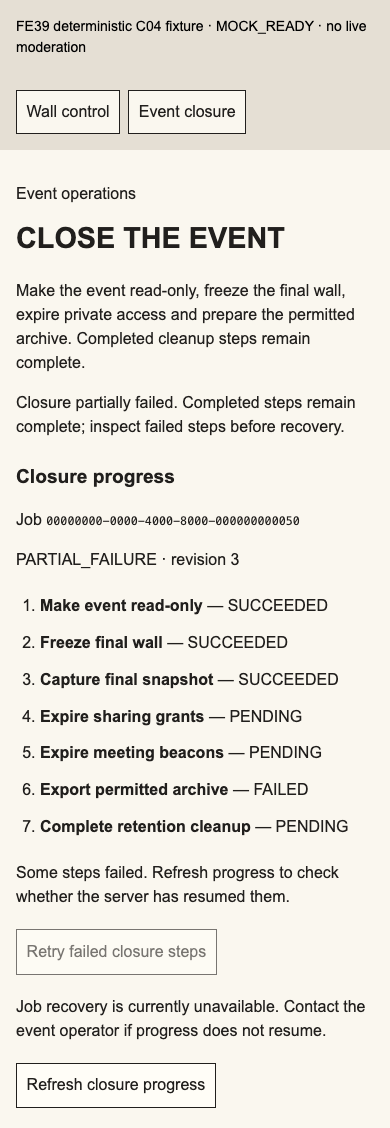
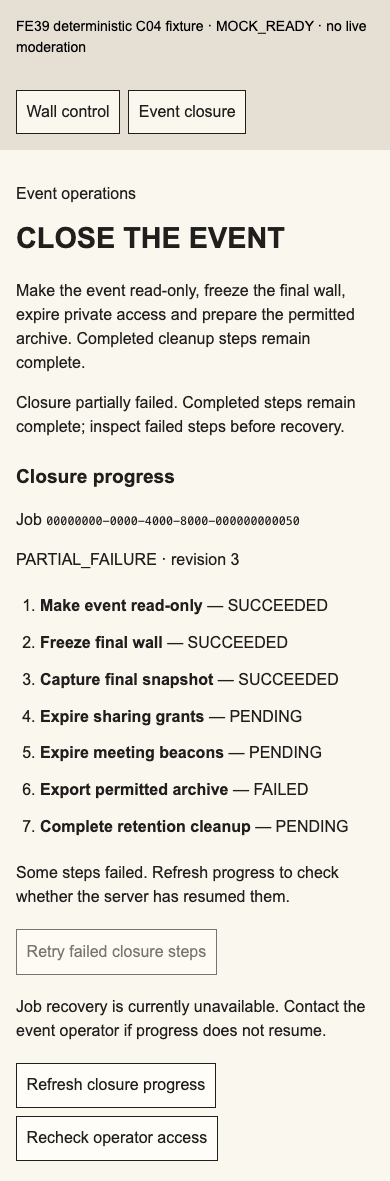
fix(mcr/FE39): restore qualified access and scope retry delays
(cherry picked from commit 680915dc382927591084d881f75fc94966ae43db)

diff --git a/frontend/src/features/admin/mural/transport.ts b/frontend/src/features/admin/mural/transport.ts
@@ -13,8 +13,9 @@ export type Outcome<T> = { kind: 'confirmed'; data: T } | { kind: 'pending' | 'u
 export function createAdminTransport({ http, privacy, context, now = Date.now }: {
   http: HttpClient; privacy: PrivacyPort; context: OperatorContextPort; now?: () => number
 }) {
-  let retryAt = 0
-  const current = (lease: OperatorContext, signal: AbortSignal) => { const active = qualifiedContext(privacy, context); return !signal.aborted && !!active && sameContext(active, lease) }
+  let retryAt = 0, retryScope: string | null = null, disposed = false
+  const stopPrivacy = privacy.registerCleanup(() => { retryAt = 0; retryScope = null })
+  const current = (lease: OperatorContext, signal: AbortSignal) => { const active = qualifiedContext(privacy, context); return !disposed && !signal.aborted && !!active && sameContext(active, lease) }
   function receipt(input: unknown, command: AdminCommand) {
     const r = receiptSchema.parse(input), errors: readonly string[] = Object.values(DOMAIN_OPERATIONS[command.operation].errors).flat()
     if (r.actor_id !== command.scope.userId || r.event_id !== command.scope.eventId || r.operation_id !== command.operation || r.idempotency_key !== command.key
@@ -28,14 +29,17 @@ export function createAdminTransport({ http, privacy, context, now = Date.now }:
     return Object.freeze(r)
   }
   async function request<T>(lease: OperatorContext, signal: AbortSignal, input: Omit<HttpRequest<T>, 'access' | 'errorFamily' | 'signal'>) {
-    if (!current(lease, signal) || now() < retryAt) throw new Error('Operator authority or retry window unavailable')
+    if (!current(lease, signal)) throw new Error('Operator authority unavailable')
+    const nextScope = JSON.stringify(lease.scope)
+    if (retryScope !== nextScope) { retryScope = nextScope; retryAt = 0 }
+    if (now() < retryAt) throw new Error('Retry window unavailable')
     const result = await http.request({ ...input, access: 'protected', errorFamily: 'domain', signal,
       decode(value, ctx) {
         if (!current(lease, signal) || ctx.path !== input.path || ctx.scope.userId !== lease.scope.userId || ctx.scope.eventId !== lease.scope.eventId
           || ctx.scope.generation !== lease.scope.generation) throw new Error('Unverified operator response')
         return input.decode(value, ctx)
       } }).catch((error: unknown) => {
-        if (current(lease, signal) && error instanceof TransportError && error.status === 429) retryAt = now() + Math.min(300000, Math.max(1000, error.retryAfterMs ?? 1000))
+        if (current(lease, signal) && error instanceof TransportError && error.status === 429) retryAt = now() + Math.min(86400000, Math.max(1000, error.retryAfterMs ?? 1000))
         throw error
       })
     if (!current(lease, signal)) throw new Error('Operator authority changed')
@@ -57,6 +61,7 @@ export function createAdminTransport({ http, privacy, context, now = Date.now }:
     }
   }
   return { request, post, receipt,
+    dispose() { disposed = true; retryAt = 0; retryScope = null; stopPrivacy() },
     status: (lease: OperatorContext, signal: AbortSignal, command: AdminCommand) => request(lease, signal, { method: 'GET', path: `/api/concert/events/${lease.scope.eventId}/commands`,
       domainOperation: 'getConcertCommandStatus', query: { operation_id: command.operation, idempotency_key: command.key },
       decode(input, ctx) { if (ctx.status !== 200 || !sameScope(command.scope, lease.scope) || command.roleRevision !== lease.roleRevision) throw new Error('Invalid command status'); return receipt(input, command) } }),

diff --git a/frontend/src/features/admin/closure/controller.ts b/frontend/src/features/admin/closure/controller.ts
@@ -35,8 +35,9 @@ export function createEventClosure({ privacy, context, api, newKey = () => crypt
       : job.state === 'COMPLETED' ? 'Server reports all closure steps complete.' : 'Closure is in progress. Refresh this job to observe durable progress.' })
   }
   async function refresh(jobId = state.jobId) {
-    if (disposed || !uuid.safeParse(jobId).success || latest && latest.job_id !== jobId) return false
-    const lease = owner.begin(); if (!lease) { if (!owner.capture()) publish({ phase: 'unavailable', job: null }); return false }
+    if (disposed) return false
+    if (!uuid.safeParse(jobId).success || latest && latest.job_id !== jobId) { publish({ message: 'Use the exact authorized closure job ID. Another job cannot replace the observed job.' }); return false }
+    const lease = owner.begin(); if (!lease) { if (!owner.capture()) publish({ phase: 'unavailable', job: null, message: 'Operator authority unavailable. Revalidate access before loading closure progress.' }); return false }
     publish({ phase: 'loading', draft: null, job: null })
     try { const job = await api.read(lease.context, lease.signal, jobId!); if (!owner.valid(lease)) return false; accept(job); return true }
     catch { if (owner.valid(lease)) publish({ phase: 'error', job: null, message: 'Closure progress unavailable. Retry this authorized job read; it does not repeat closure.' }); return false }
@@ -83,8 +84,14 @@ export function createEventClosure({ privacy, context, api, newKey = () => crypt
     } catch { if (owner.valid(lease)) publish({ commandPhase: 'unknown', message: 'Original closure could not be verified. No replay is permitted.' }) }
     finally { owner.finish(lease) }
   }
+  function revalidate() {
+    if (!disposed && state.commandPhase !== 'sending' && state.commandPhase !== 'checking' && state.phase !== 'loading') {
+      const current = owner.capture()
+      publish({ phase: current ? 'ready' : 'unavailable', draft: null, message: current ? 'Operator access checked. Load an existing job or review an eligible event closure.' : 'Operator authority unavailable. Revalidate your event access before continuing.' })
+    }
+  }
   return { read: () => state, subscribe(f: () => void) { listeners.add(f); return () => { listeners.delete(f) } },
-    start() { if (!disposed) { owner.start(); publish({ phase: owner.capture() ? 'ready' : 'unavailable' }) } }, prepare, confirm, check, refresh,
+    start() { if (!disposed) { owner.start(); revalidate() } }, revalidate, prepare, confirm, check, refresh,
     cancel() { publish({ draft: null }) },
     dispose() { if (!disposed) { disposed = true; latest = null; owner.dispose(); publish({ ...empty(), phase: 'disposed' }); listeners.clear() } },
   }

diff --git a/frontend/src/features/admin/mural/__tests__/fixture.ts b/frontend/src/features/admin/mural/__tests__/fixture.ts
@@ -21,7 +21,7 @@ export function fixture() {
   const privacy = createQueryPrivacy({ client: new QueryClient(), session }), listeners = new Set<() => void>()
   let context: OperatorContext | null = { scope: privacy.capture(), role: 'OPERATOR', roleRevision: 1, eventRevision: 8, phase: 'LIVE' }
   const authority = { read: () => context, subscribe(f: () => void) { listeners.add(f); return () => { listeners.delete(f) } } }
-  const server = { wall: wall(), job: job(), mode: 'ack', operator: true, requests: [] as Request[], receipts: new Map<string, Record<string, unknown>>(),
+  const server = { wall: wall(), job: job(), mode: 'ack', operator: true, eventRevision: 8, eventPhase: 'LIVE', requests: [] as Request[], receipts: new Map<string, Record<string, unknown>>(),
     transform: (value: unknown, _request: Request): unknown => value,
     intercept: null as null | ((request: Request) => Promise<Response> | null) }
   const reply = (value: unknown, request: Request, status = 200) => Response.json(server.transform(value, request), { status })
@@ -46,6 +46,11 @@ export function fixture() {
     const body = await request.clone().json(), closure = url.pathname.endsWith('/closure')
     const operation = closure ? 'closeConcertEvent' : url.pathname.endsWith('/control') ? 'controlConcertMural' : url.pathname.endsWith('/locks') ? 'lockConcertMuralRegion' : 'restoreConcertMural'
     if (!closure && body.expected_revision !== server.wall.revision) return error('VERSION_CONFLICT', 409)
+    if (closure) {
+      if (!['OPEN', 'LIVE'].includes(server.eventPhase)) return error('EVENT_READ_ONLY', 409)
+      if (body.expected_revision !== server.eventRevision) return error('VERSION_CONFLICT', 409)
+      server.eventRevision++; server.eventPhase = 'READ_ONLY'
+    }
     if (!closure) {
       server.wall = { ...server.wall, revision: server.wall.revision + 1,
         state: body.action === 'PAUSE' || operation === 'restoreConcertMural' ? 'PAUSED' : body.action === 'RESUME' ? 'EDITABLE' : body.action === 'FREEZE' ? 'FROZEN' : server.wall.state,
@@ -69,6 +74,6 @@ export function fixture() {
     update(next: OperatorContext | null) { context = next; for (const f of Array.from(listeners)) f() },
     context: () => context!,
     posts: () => server.requests.filter(r => r.method === 'POST'),
-    cleanup() { mural.dispose(); closure.dispose(); privacy.dispose() },
+    cleanup() { mural.dispose(); closure.dispose(); transport.dispose(); privacy.dispose() },
   }
 }

diff --git a/frontend/src/features/admin/closure/__tests__/controller.test.ts b/frontend/src/features/admin/closure/__tests__/controller.test.ts
@@ -35,6 +35,11 @@ describe('FE39 event closure', () => {
     await h.closure.refresh(ids.job); h.closure.dispose(); expect(h.closure.read()).toMatchObject({ phase: 'disposed', job: null, jobId: null, command: null })
     h.session.replace(h.session.read().generation, null); await h.closure.refresh(ids.job); expect(h.closure.read().job).toBeNull()
   })
+  it('missing role is visibly unavailable; renewed qualified access can reopen controls without a role endpoint', () => {
+    const previous = h.context(); h.update(null); h.closure.revalidate(); expect(h.closure.read()).toMatchObject({ phase: 'unavailable' }); expect(h.closure.read().message).toContain('authority unavailable')
+    h.update({ ...previous, roleRevision: 2 }); h.closure.revalidate(); expect(h.closure.read().phase).toBe('ready'); expect(h.server.requests).toHaveLength(0)
+    expect(h.closure.prepare('Fresh qualified owner')).toBe(true)
+  })
   it.each(['wrong-event','wrong-job','extra-private','duplicate-step','false-complete','regress'])('rejects %s closure progress', async mode => {
     await h.closure.refresh(ids.job)
     h.server.transform = value => {

diff --git a/frontend/src/features/admin/mural/__tests__/http.test.ts b/frontend/src/features/admin/mural/__tests__/http.test.ts
@@ -55,4 +55,13 @@ describe('FE39 canonical HTTP boundary', () => {
     expect(await h.muralApi.send(h.context(), new AbortController().signal, command())).toEqual({ kind: 'unknown' })
     expect(h.posts()).toHaveLength(1)
   })
+  it('preserves a full server retry delay and clears that private throttle on a new canonical actor', async () => {
+    h.server.intercept = () => Promise.resolve(Response.json({ code: 'RATE', message: 'safe fixture', details: { reason: 'RATE_LIMITED', retry_after_ms: 3600000 } }, { status: 429 }))
+    await h.muralApi.send(h.context(), new AbortController().signal, command()); h.advance(300000)
+    await expect(h.muralApi.read(h.context(), new AbortController().signal)).rejects.toThrow(); expect(h.server.requests).toHaveLength(1)
+    h.server.intercept = null
+    h.session.replace(h.session.read().generation, { userId: ids.restore, eventId: ids.event, accessToken: 'new_actor' })
+    h.update({ ...h.context(), scope: h.privacy.capture() })
+    await h.muralApi.read(h.context(), new AbortController().signal); expect(h.server.requests).toHaveLength(2)
+  })
 })

diff --git a/frontend/src/features/admin/mural/controller.ts b/frontend/src/features/admin/mural/controller.ts
@@ -31,7 +31,7 @@ export function createMuralControl({ privacy, context, api, newKey = () => crypt
   }
   async function load() {
     if (disposed) return
-    const lease = owner.begin(); if (!lease) { if (!owner.capture()) publish({ phase: 'unavailable', mural: null, draft: null }); return }
+    const lease = owner.begin(); if (!lease) { if (!owner.capture()) publish({ phase: 'unavailable', mural: null, draft: null, message: 'Operator authority unavailable. Revalidate access before loading wall controls.' }); return }
     publish({ phase: 'loading', draft: null, mural: null })
     try { const data = await api.read(lease.context, lease.signal); if (owner.valid(lease)) { accept(data); publish({ message: state.command ? 'Original command remains unresolved. Check its status before another action.' : 'Server wall state loaded.' }) } }
     catch { if (owner.valid(lease)) publish({ phase: 'error', mural: null, message: 'Wall controls unavailable. Retry the authorized read.' }) }

diff --git a/frontend/src/features/admin/mural/__tests__/preview.tsx b/frontend/src/features/admin/mural/__tests__/preview.tsx
@@ -5,6 +5,7 @@ import { WallControl } from '../WallControl'
 import { EventClosure } from '../../closure/EventClosure'
 import './preview.css'
 const f = fixture()
+const originalContext = f.context()
 await f.mural.start(); f.closure.start()
 function App() {
   const [tab, setTab] = useState('wall')
@@ -18,6 +19,7 @@ const testOnly = {
   mode(value: string) { f.server.mode = value },
   progress(state: 'RUNNING' | 'PARTIAL_FAILURE' | 'COMPLETED') { f.server.job = job(state, f.server.job.revision + 1) },
   revoke() { f.update(null) },
+  renew() { f.update({ ...originalContext, scope: f.privacy.capture(), roleRevision: 2 }) },
   logout() { f.session.replace(f.session.read().generation, null) },
   dispose: f.cleanup,
 }

diff --git a/frontend/src/features/admin/closure/EventClosure.tsx b/frontend/src/features/admin/closure/EventClosure.tsx
@@ -30,5 +30,6 @@ export function EventClosure({ controller }: { controller: EventClosureControlle
       <label>Existing closure job ID<input required value={jobId} onChange={e => setJobId(e.target.value)} maxLength={36} autoComplete="off" spellCheck={false} pattern="[0-9a-f-]{36}" /></label>
       <button type="submit" disabled={busy}>Load existing closure job</button>
     </form>}
+    <button disabled={busy || state.phase === 'disposed'} onClick={controller.revalidate}>Recheck operator access</button>
   </section>
 }

diff --git a/docs/mcr/frontend/wall-control-closure.md b/docs/mcr/frontend/wall-control-closure.md
@@ -111,6 +111,13 @@ read-only resolution under the renewed context. No action is silently replayed.
 Private state is in memory only; no local/session storage, persisted query data,
 analytics payload or production debug global is added.
 
+`Recheck operator access` reads only the injected fresh context and reopens
+eligible controls after the role owner publishes renewed authority. It creates
+no role endpoint or role request. An existing job can then be reloaded by its
+exact ID; missing authority remains visibly unavailable. Throttling honors the
+full server delay up to the shared 24-hour bound, is scoped to canonical privacy
+identity, and is erased on privacy change.
+
 Construct `createAdminTransport` once with the canonical client, privacy and
 qualified context; pass it to `createMuralAdminApi`/`createClosureApi`, then the
 matching controllers. Call `start` after admission, retain controllers through
@@ -119,6 +126,8 @@ privacy change rather than reviving an old scope. Delivery alone mounts the
 components at `/admin/mural` and `/admin/archive` and owns all root registration.
 No route is installed by this patch. Server fresh authorization, audit receipts,
 atomic revisions and actual closure work remain owning-service responsibilities.
+Dispose the shared feature transport after both controllers release it; this
+unregisters its private throttle cleanup.
 
 ## Verification
 
@@ -129,7 +138,7 @@ qualified installation; no install or dependency mutation was performed.
 
 | Command | Exit | Evidence |
 | --- | --- | --- |
-| `NODE frontend/node_modules/vitest/vitest.mjs run frontend/src/features/admin/mural/__tests__ frontend/src/features/admin/closure/__tests__` | 0 | 58 tests / 4 files: contract fixtures/parity, actual canonical HTTP, explicit commands, pending/unknown/no replay, forged receipts/results, exact snapshot, locks, stale revisions, partial closure, server denial, role/privacy eviction, delayed response, timeout and throttling. |
+| `NODE frontend/node_modules/vitest/vitest.mjs run frontend/src/features/admin/mural/__tests__ frontend/src/features/admin/closure/__tests__` | 0 | 60 tests / 4 files: contract fixtures/parity, actual canonical HTTP, explicit commands, pending/unknown/no replay, forged receipts/results, exact snapshot, locks, stale revisions, partial closure, server denial, role/privacy eviction/renewal, delayed response, timeout and identity-scoped full-delay throttling. |
 | `NODE frontend/node_modules/typescript/bin/tsc --project frontend/tsconfig.json --pretty false --incremental false` | 0 | Whole frontend strict types. |
 | `NODE frontend/node_modules/oxlint/bin/oxlint frontend/src/features/admin/mural frontend/src/features/admin/closure` | 0 | Scoped lint, zero warnings/errors. |
 | `NODE frontend/src/features/admin/mural/__tests__/browser-smoke.mjs` | 0 | Actual Chrome 156.0.8078.80, 360/390/430×844 touch/mobile/reduced-motion emulation. |
@@ -146,6 +155,12 @@ pause/resume/freeze, lost-wall-command recovery without replay, visible failed
 closure step, progress reread and cross-panel privacy eviction. The fixture
 global exists only in the test entry point. These are qualified frontend fixture
 checks; they do not certify backend moderation or IN04.
+
+Committed increment ancestry starts at `75856239d273e14a21a17f4c6248af35fe7e7007`
+(parent `cd7192f`). A following correction qualifies renewed operator access and
+full-delay private throttling; its browser report records parent `7585623` and
+the exact tested source hashes. Delivery has the initial committed handoff;
+the required resume amendment remains a separate unfinished increment.
 
 Remaining required work: adopt the committed explicit closure-resume contract,
 add meaningful failed-step retry/ambiguous-resume fixtures and browser checks,
